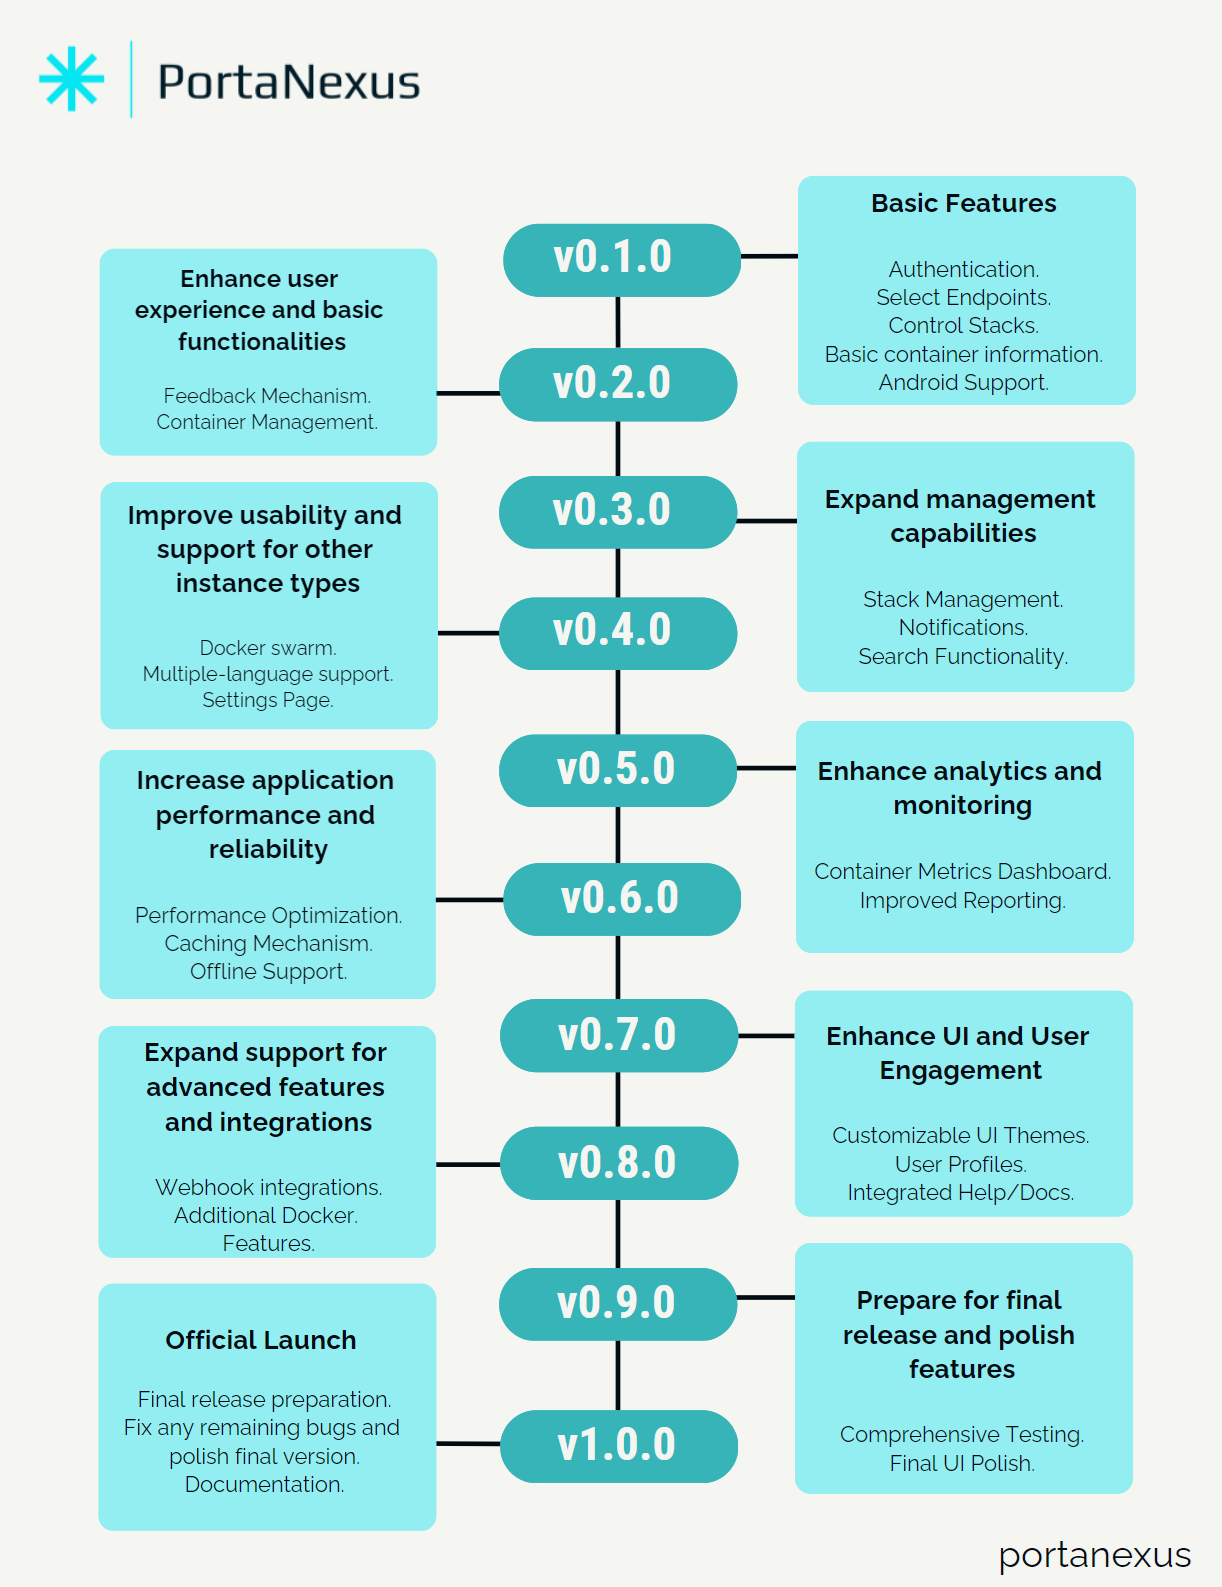
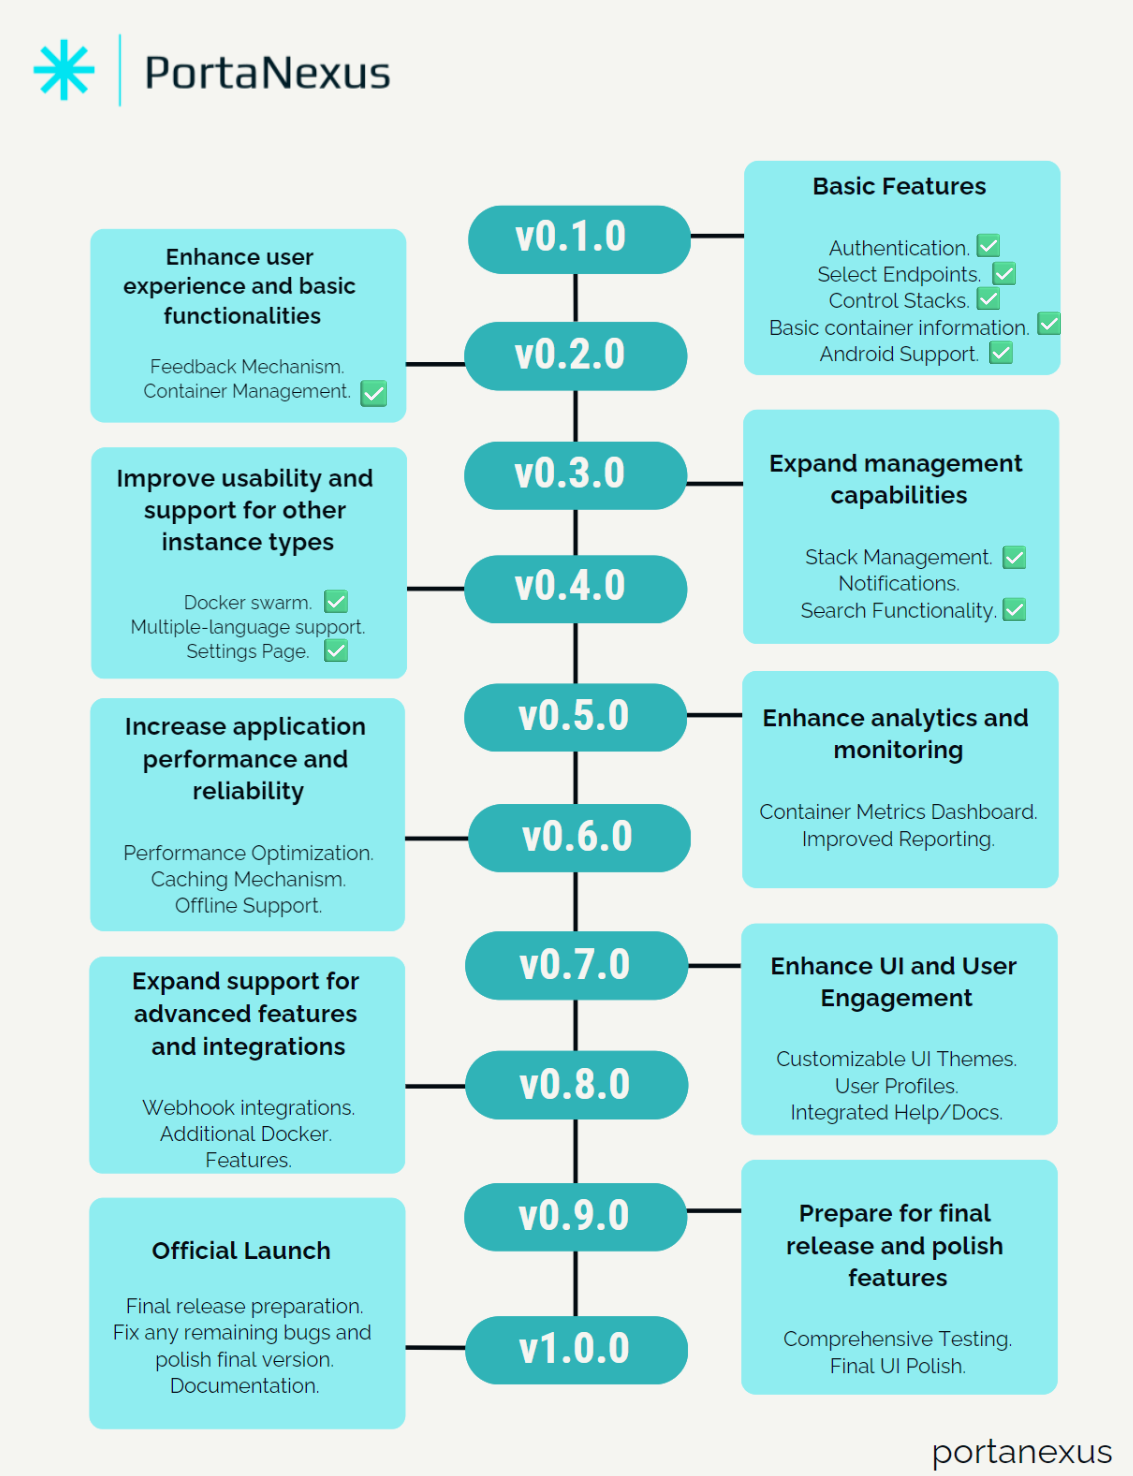
update download link and roadmap image

diff --git a/ROADMAP.md b/ROADMAP.md
@@ -14,21 +14,21 @@ More details below.
 #### **Version 0.3.0**
 **Goals:** Expand management capabilities.
 - **Stack Management:**
-  - Add functionalities to create and delete stacks.
+  - Add functionalities to create and delete stacks. :white_check_mark:
   - Enable editing existing stack configurations.
 - **Notifications:**
   - Implement push notifications for container and stack status changes.
 - **Search Functionality:**
-  - Add search functionality for containers and stacks.
+  - Add search functionality for containers and stacks. :white_check_mark:
 
 #### **Version 0.4.0**
 **Goals:** Improve usability and support for other Docker types.
 - **Support for Docker Swarm:** 
-  - Extend support to Docker Swarm instances (type === 2).
+  - Extend support to Docker Swarm instances (type === 2). :white_check_mark:
 - **Multi-language Support:** 
   - Introduce localization to support multiple languages.
 - **Settings Page:**
-  - Allow users to configure preferences (e.g., notification settings, API key management).
+  - Allow users to configure preferences (e.g., notification settings, API key management). :white_check_mark:
 
 #### **Version 0.5.0**
 **Goals:** Enhance analytics and monitoring features.

diff --git a/README.md b/README.md
@@ -1,4 +1,4 @@
-# PortaNexus ![Android APK Workflow](https://github.com/tiagorvmartins/portanexus/actions/workflows/android.release.apk.yml/badge.svg) [![Download APK v0.2.0](https://img.shields.io/badge/download-v0.2.0-green)](https://github.com/tiagorvmartins/portanexus/releases/download/v0.2.0/portanexus-v0.2.0.apk)
+# PortaNexus ![Android APK Workflow](https://github.com/tiagorvmartins/portanexus/actions/workflows/android.release.apk.yml/badge.svg) [![Download APK v0.3.0](https://img.shields.io/badge/download-v0.3.0-green)](https://github.com/tiagorvmartins/portanexus/releases/download/v0.3.0/portanexus-v0.3.0.apk)
 
 <img src="https://github.com/tiagorvmartins/portanexus/blob/main/docs/demo/demo.gif" width="35%" height="35%"/>
 
@@ -34,7 +34,7 @@ For convenience there is also a Docker image being maintained on docker hub [tia
 ```
 services:
   portanexus:
-    image: tiagorvmartins/portanexus-web:v0.2.0
+    image: tiagorvmartins/portanexus-web:v0.3.0
     ports:
       - "8080:80  # You can change the binded port on host to your needs if needed
 ```
